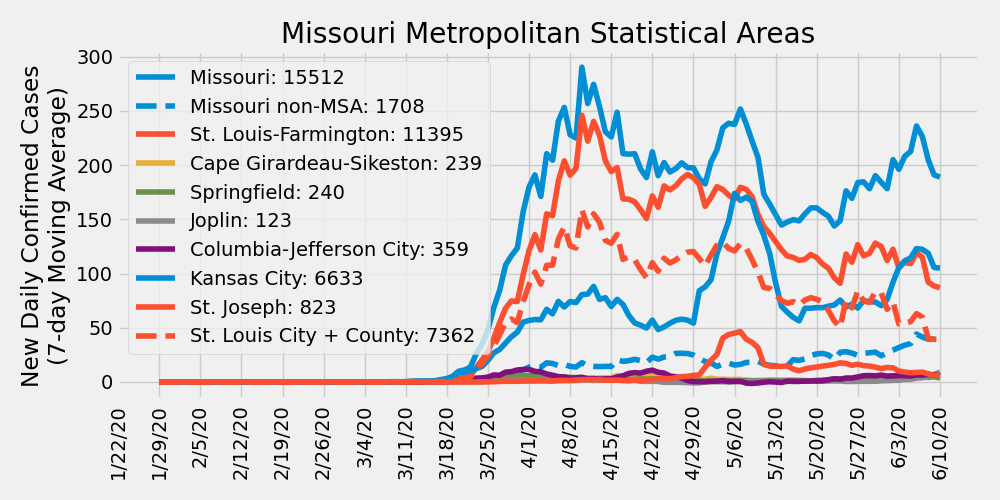
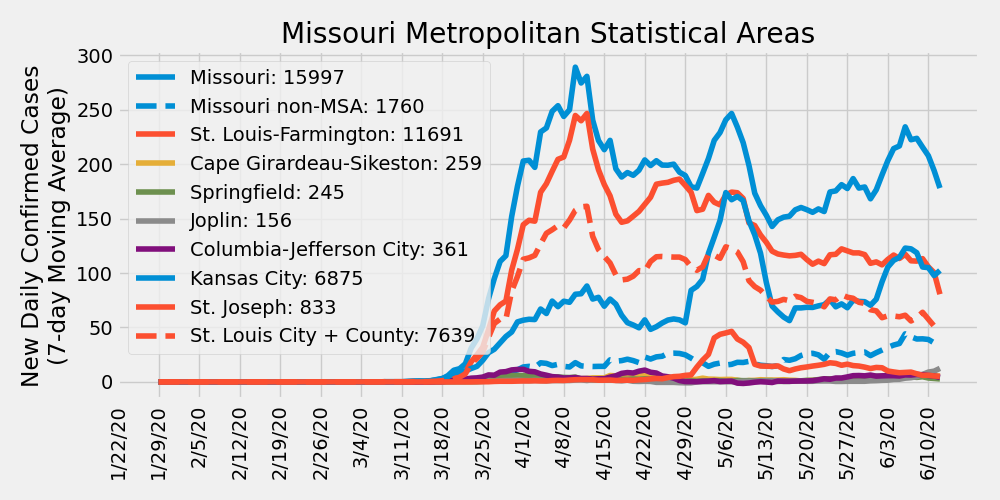
update 6/13/2020

diff --git a/ajvogt-analysis/missouri_analysis.md b/ajvogt-analysis/missouri_analysis.md
@@ -1,6 +1,6 @@
 # COVID-19 Missouri Statistics & Regional Breakdowns
 Author: Adam J. Vogt  
-Updated: 06/11/2020  
+Updated: 06/13/2020  
 Source: [COVID-19 Data Repository by the Center for Systems Science and Engineering (CSSE) at Johns Hopkins University](https://github.com/CSSEGISandData/COVID-19)  
 Source Code: `/ajvogt-analysis/mo_analysis_script.py`
 
@@ -15,129 +15,129 @@ Legend shows cumulative confirmed cases
 ## Metropolitan Statistical Area (MSA) Counties
 | MSA | State | County | Total Cases | Cases (Last 14 Days) | Cases (Last 7 Days) |
 |-----|-------|--------|---|---|---|
-| St. Louis-Farmington | Missouri | Lincoln | 121 | 12 | 3 |
-| St. Louis-Farmington | Missouri | Warren | 31 | 3 | 3 |
-| St. Louis-Farmington | Missouri | Franklin | 156 | 16 | 13 |
-| St. Louis-Farmington | Missouri | Jefferson | 411 | 66 | 16 |
-| St. Louis-Farmington | Missouri | St. Charles | 871 | 116 | 72 |
-| St. Louis-Farmington | Missouri | St. Louis | 5217 | 385 | 133 |
-| St. Louis-Farmington | Missouri | St. Louis City | 2145 | 261 | 139 |
-| St. Louis-Farmington | Missouri | St. Francois | 41 | 8 | 5 |
-| St. Louis-Farmington | Illinois | Monroe | 105 | 12 | 8 |
-| St. Louis-Farmington | Illinois | St. Clair | 1354 | 319 | 144 |
-| St. Louis-Farmington | Illinois | Madison | 660 | 116 | 60 |
-| St. Louis-Farmington | Illinois | Macoupin | 46 | 3 | 0 |
-| St. Louis-Farmington | Illinois | Jersey | 27 | 7 | 3 |
-| St. Louis-Farmington | Illinois | Clinton | 197 | 19 | 9 |
+| St. Louis-Farmington | Missouri | Lincoln | 88 | -21 | -30 |
+| St. Louis-Farmington | Missouri | Warren | 31 | 3 | 2 |
+| St. Louis-Farmington | Missouri | Franklin | 166 | 26 | 17 |
+| St. Louis-Farmington | Missouri | Jefferson | 374 | 25 | -24 |
+| St. Louis-Farmington | Missouri | St. Charles | 882 | 114 | 61 |
+| St. Louis-Farmington | Missouri | St. Louis | 5460 | 480 | 198 |
+| St. Louis-Farmington | Missouri | St. Louis City | 2179 | 263 | 126 |
+| St. Louis-Farmington | Missouri | St. Francois | 40 | 6 | 2 |
+| St. Louis-Farmington | Illinois | Monroe | 106 | 12 | 6 |
+| St. Louis-Farmington | Illinois | St. Clair | 1392 | 301 | 130 |
+| St. Louis-Farmington | Illinois | Madison | 683 | 118 | 59 |
+| St. Louis-Farmington | Illinois | Macoupin | 46 | 1 | 0 |
+| St. Louis-Farmington | Illinois | Jersey | 28 | 8 | 4 |
+| St. Louis-Farmington | Illinois | Clinton | 203 | 22 | 13 |
 | St. Louis-Farmington | Illinois | Calhoun | 1 | 0 | 0 |
-| St. Louis-Farmington | Illinois | Bond | 12 | 2 | 0 |
-| Cape Girardeau-Sikeston | Missouri | Cape Girardeau | 88 | 20 | 12 |
-| Cape Girardeau-Sikeston | Missouri | Bollinger | 7 | 1 | 0 |
-| Cape Girardeau-Sikeston | Illinois | Alexander | 16 | 8 | 4 |
-| Cape Girardeau-Sikeston | Missouri | Scott | 128 | 34 | 15 |
-| Springfield | Missouri | Greene | 183 | 58 | 19 |
-| Springfield | Missouri | Christian | 29 | 8 | 2 |
+| St. Louis-Farmington | Illinois | Bond | 12 | 0 | 0 |
+| Cape Girardeau-Sikeston | Missouri | Cape Girardeau | 101 | 28 | 18 |
+| Cape Girardeau-Sikeston | Missouri | Bollinger | 8 | 2 | 1 |
+| Cape Girardeau-Sikeston | Illinois | Alexander | 16 | 8 | 2 |
+| Cape Girardeau-Sikeston | Missouri | Scott | 134 | 34 | 15 |
+| Springfield | Missouri | Greene | 185 | 46 | 14 |
+| Springfield | Missouri | Christian | 29 | 8 | 0 |
 | Springfield | Missouri | Webster | 18 | 1 | 0 |
-| Springfield | Missouri | Polk | 4 | 1 | 1 |
-| Springfield | Missouri | Dallas | 6 | 3 | 3 |
-| Joplin | Missouri | Jasper | 79 | 46 | 40 |
-| Joplin | Missouri | Newton | 44 | 28 | 23 |
+| Springfield | Missouri | Polk | 7 | 4 | 3 |
+| Springfield | Missouri | Dallas | 6 | 3 | 2 |
+| Joplin | Missouri | Jasper | 107 | 71 | 61 |
+| Joplin | Missouri | Newton | 49 | 33 | 26 |
 | Columbia-Jefferson City | Missouri | Howard | 3 | 0 | 0 |
-| Columbia-Jefferson City | Missouri | Boone | 197 | 67 | 35 |
+| Columbia-Jefferson City | Missouri | Boone | 204 | 60 | 31 |
 | Columbia-Jefferson City | Missouri | Cooper | 9 | 0 | 0 |
-| Columbia-Jefferson City | Missouri | Moniteau | 49 | 4 | 1 |
-| Columbia-Jefferson City | Missouri | Cole | 61 | 1 | 0 |
-| Columbia-Jefferson City | Missouri | Callaway | 34 | 8 | 4 |
-| Columbia-Jefferson City | Missouri | Osage | 6 | 1 | 1 |
-| Kansas City | Missouri | Kansas City | 1626 | 540 | 260 |
-| Kansas City | Missouri | Jackson | 752 | 237 | 96 |
-| Kansas City | Missouri | Clay | 254 | 96 | 77 |
-| Kansas City | Missouri | Cass | 108 | 26 | 11 |
-| Kansas City | Missouri | Platte | 81 | 13 | 8 |
-| Kansas City | Missouri | Lafayette | 83 | 11 | 7 |
-| Kansas City | Missouri | Ray | 24 | 5 | 2 |
-| Kansas City | Missouri | Clinton | 20 | 2 | 2 |
-| Kansas City | Missouri | Bates | 12 | 5 | 2 |
-| Kansas City | Missouri | Caldwell | 8 | 3 | 2 |
-| Kansas City | Kansas | Johnson | 972 | 212 | 107 |
-| Kansas City | Kansas | Wyandotte | 1569 | 288 | 150 |
-| Kansas City | Kansas | Leavenworth | 1103 | 29 | 9 |
-| Kansas City | Kansas | Miami | 10 | 3 | 2 |
-| Kansas City | Kansas | Linn | 11 | 4 | 0 |
-| St. Joseph | Missouri | Andrew | 34 | 4 | 3 |
-| St. Joseph | Missouri | Buchanan | 762 | 100 | 37 |
+| Columbia-Jefferson City | Missouri | Moniteau | 49 | 3 | 0 |
+| Columbia-Jefferson City | Missouri | Cole | 57 | -3 | -4 |
+| Columbia-Jefferson City | Missouri | Callaway | 34 | 7 | 2 |
+| Columbia-Jefferson City | Missouri | Osage | 5 | 0 | 0 |
+| Kansas City | Missouri | Kansas City | 1680 | 563 | 212 |
+| Kansas City | Missouri | Jackson | 791 | 231 | 105 |
+| Kansas City | Missouri | Clay | 284 | 117 | 98 |
+| Kansas City | Missouri | Cass | 111 | 26 | 11 |
+| Kansas City | Missouri | Platte | 89 | 19 | 12 |
+| Kansas City | Missouri | Lafayette | 84 | 11 | 4 |
+| Kansas City | Missouri | Ray | 24 | 5 | 1 |
+| Kansas City | Missouri | Clinton | 19 | 1 | -1 |
+| Kansas City | Missouri | Bates | 12 | 5 | 0 |
+| Kansas City | Missouri | Caldwell | 7 | 2 | 0 |
+| Kansas City | Kansas | Johnson | 1015 | 214 | 105 |
+| Kansas City | Kansas | Wyandotte | 1626 | 291 | 155 |
+| Kansas City | Kansas | Leavenworth | 1106 | 24 | 6 |
+| Kansas City | Kansas | Miami | 16 | 9 | 9 |
+| Kansas City | Kansas | Linn | 11 | 0 | 0 |
+| St. Joseph | Missouri | Andrew | 34 | 4 | 2 |
+| St. Joseph | Missouri | Buchanan | 772 | 85 | 31 |
 | St. Joseph | Missouri | DeKalb | 7 | 1 | 1 |
-| St. Joseph | Kansas | Doniphan | 20 | 8 | 2 |
-| Missouri non-MSA | Missouri | Adair | 74 | 28 | 14 |
+| St. Joseph | Kansas | Doniphan | 20 | 5 | 2 |
+| Missouri non-MSA | Missouri | Adair | 75 | 25 | 8 |
 | Missouri non-MSA | Missouri | Atchison | 3 | 0 | 0 |
-| Missouri non-MSA | Missouri | Audrain | 119 | 51 | 22 |
+| Missouri non-MSA | Missouri | Audrain | 122 | 49 | 14 |
 | Missouri non-MSA | Missouri | Barry | 9 | 0 | 0 |
-| Missouri non-MSA | Missouri | Barton | 0 | 0 | 0 |
-| Missouri non-MSA | Missouri | Benton | 13 | 3 | 2 |
-| Missouri non-MSA | Missouri | Butler | 51 | 22 | 9 |
+| Missouri non-MSA | Missouri | Barton | 1 | 1 | 1 |
+| Missouri non-MSA | Missouri | Benton | 14 | 4 | 2 |
+| Missouri non-MSA | Missouri | Butler | 40 | 8 | -7 |
 | Missouri non-MSA | Missouri | Camden | 38 | 0 | 0 |
-| Missouri non-MSA | Missouri | Carroll | 9 | 2 | 1 |
+| Missouri non-MSA | Missouri | Carroll | 9 | 1 | 0 |
 | Missouri non-MSA | Missouri | Carter | 5 | 0 | 0 |
 | Missouri non-MSA | Missouri | Cedar | 9 | 0 | 0 |
 | Missouri non-MSA | Missouri | Chariton | 6 | 0 | 0 |
-| Missouri non-MSA | Missouri | Clark | 2 | 1 | 1 |
-| Missouri non-MSA | Missouri | Crawford | 9 | 0 | 0 |
+| Missouri non-MSA | Missouri | Clark | 1 | 0 | 0 |
+| Missouri non-MSA | Missouri | Crawford | 8 | -1 | -1 |
 | Missouri non-MSA | Missouri | Dade | 0 | 0 | 0 |
-| Missouri non-MSA | Missouri | Daviess | 7 | 3 | 3 |
-| Missouri non-MSA | Missouri | Dent | 0 | 0 | 0 |
-| Missouri non-MSA | Missouri | Douglas | 0 | 0 | 0 |
-| Missouri non-MSA | Missouri | Dunklin | 52 | 21 | 7 |
+| Missouri non-MSA | Missouri | Daviess | 7 | 3 | 2 |
+| Missouri non-MSA | Missouri | Dent | 1 | 1 | 1 |
+| Missouri non-MSA | Missouri | Douglas | 3 | 3 | 3 |
+| Missouri non-MSA | Missouri | Dunklin | 54 | 21 | 6 |
 | Missouri non-MSA | Missouri | Gasconade | 2 | 0 | 0 |
-| Missouri non-MSA | Missouri | Gentry | 54 | 33 | 13 |
-| Missouri non-MSA | Missouri | Grundy | 0 | 0 | 0 |
+| Missouri non-MSA | Missouri | Gentry | 54 | 28 | 8 |
+| Missouri non-MSA | Missouri | Grundy | 8 | 8 | 8 |
 | Missouri non-MSA | Missouri | Harrison | 9 | 0 | 0 |
-| Missouri non-MSA | Missouri | Henry | 15 | 5 | 3 |
+| Missouri non-MSA | Missouri | Henry | 16 | 5 | 4 |
 | Missouri non-MSA | Missouri | Hickory | 0 | 0 | 0 |
-| Missouri non-MSA | Missouri | Holt | 2 | 1 | 0 |
-| Missouri non-MSA | Missouri | Howell | 17 | 12 | 8 |
-| Missouri non-MSA | Missouri | Iron | 3 | 1 | 0 |
-| Missouri non-MSA | Missouri | Knox | 0 | 0 | 0 |
-| Missouri non-MSA | Missouri | Laclede | 7 | 4 | 0 |
-| Missouri non-MSA | Missouri | Lawrence | 8 | 0 | 0 |
+| Missouri non-MSA | Missouri | Holt | 1 | 0 | -1 |
+| Missouri non-MSA | Missouri | Howell | 19 | 13 | 8 |
+| Missouri non-MSA | Missouri | Iron | 2 | 0 | -1 |
+| Missouri non-MSA | Missouri | Knox | 2 | 2 | 2 |
+| Missouri non-MSA | Missouri | Laclede | 9 | 6 | 2 |
+| Missouri non-MSA | Missouri | Lawrence | 7 | -1 | -1 |
 | Missouri non-MSA | Missouri | Lewis | 7 | 0 | 0 |
-| Missouri non-MSA | Missouri | Livingston | 5 | 2 | 2 |
-| Missouri non-MSA | Missouri | McDonald | 42 | 24 | 20 |
-| Missouri non-MSA | Missouri | Macon | 6 | 4 | 0 |
+| Missouri non-MSA | Missouri | Livingston | 4 | 1 | 0 |
+| Missouri non-MSA | Missouri | McDonald | 63 | 43 | 40 |
+| Missouri non-MSA | Missouri | Macon | 6 | 2 | 0 |
 | Missouri non-MSA | Missouri | Maries | 2 | 0 | 0 |
-| Missouri non-MSA | Missouri | Marion | 6 | 1 | 1 |
-| Missouri non-MSA | Missouri | Mercer | 0 | 0 | 0 |
-| Missouri non-MSA | Missouri | Miller | 5 | 1 | 1 |
-| Missouri non-MSA | Missouri | Mississippi | 66 | 12 | 7 |
-| Missouri non-MSA | Missouri | Montgomery | 13 | 5 | 4 |
+| Missouri non-MSA | Missouri | Marion | 7 | 2 | 2 |
+| Missouri non-MSA | Missouri | Mercer | 5 | 5 | 5 |
+| Missouri non-MSA | Missouri | Miller | 4 | 0 | 0 |
+| Missouri non-MSA | Missouri | Mississippi | 70 | 14 | 9 |
+| Missouri non-MSA | Missouri | Montgomery | 12 | 3 | 2 |
 | Missouri non-MSA | Missouri | Morgan | 9 | 0 | 0 |
-| Missouri non-MSA | Missouri | New Madrid | 24 | 7 | 3 |
-| Missouri non-MSA | Missouri | Nodaway | 14 | 2 | 0 |
-| Missouri non-MSA | Missouri | Oregon | 2 | 0 | 0 |
+| Missouri non-MSA | Missouri | New Madrid | 32 | 12 | 11 |
+| Missouri non-MSA | Missouri | Nodaway | 15 | 3 | 1 |
+| Missouri non-MSA | Missouri | Oregon | 3 | 1 | 1 |
 | Missouri non-MSA | Missouri | Ozark | 0 | 0 | 0 |
-| Missouri non-MSA | Missouri | Pemiscot | 99 | 23 | 10 |
-| Missouri non-MSA | Missouri | Perry | 75 | 25 | 11 |
-| Missouri non-MSA | Missouri | Pettis | 84 | 12 | 5 |
+| Missouri non-MSA | Missouri | Pemiscot | 99 | 23 | 9 |
+| Missouri non-MSA | Missouri | Perry | 80 | 25 | 11 |
+| Missouri non-MSA | Missouri | Pettis | 84 | 6 | 5 |
 | Missouri non-MSA | Missouri | Phelps | 6 | 2 | 1 |
-| Missouri non-MSA | Missouri | Pike | 29 | 13 | 2 |
-| Missouri non-MSA | Missouri | Pulaski | 109 | 75 | 70 |
-| Missouri non-MSA | Missouri | Putnam | 0 | 0 | 0 |
+| Missouri non-MSA | Missouri | Pike | 31 | 14 | 3 |
+| Missouri non-MSA | Missouri | Pulaski | 106 | 72 | 67 |
+| Missouri non-MSA | Missouri | Putnam | 1 | 1 | 1 |
 | Missouri non-MSA | Missouri | Ralls | 5 | 2 | 0 |
 | Missouri non-MSA | Missouri | Randolph | 10 | 1 | 0 |
 | Missouri non-MSA | Missouri | Reynolds | 2 | 0 | 0 |
-| Missouri non-MSA | Missouri | Ripley | 11 | 4 | 1 |
-| Missouri non-MSA | Missouri | Ste. Genevieve | 13 | 4 | 1 |
-| Missouri non-MSA | Missouri | Saline | 283 | 15 | 14 |
-| Missouri non-MSA | Missouri | Schuyler | 0 | 0 | 0 |
-| Missouri non-MSA | Missouri | Scotland | 9 | 5 | 1 |
-| Missouri non-MSA | Missouri | Shannon | 0 | 0 | 0 |
+| Missouri non-MSA | Missouri | Ripley | 12 | 5 | 1 |
+| Missouri non-MSA | Missouri | Ste. Genevieve | 13 | 2 | 1 |
+| Missouri non-MSA | Missouri | Saline | 270 | 1 | -11 |
+| Missouri non-MSA | Missouri | Schuyler | 1 | 1 | 1 |
+| Missouri non-MSA | Missouri | Scotland | 8 | 4 | -1 |
+| Missouri non-MSA | Missouri | Shannon | 6 | 6 | 6 |
 | Missouri non-MSA | Missouri | Shelby | 1 | 0 | 0 |
-| Missouri non-MSA | Missouri | Stoddard | 109 | 35 | 15 |
-| Missouri non-MSA | Missouri | Stone | 10 | 6 | 5 |
-| Missouri non-MSA | Missouri | Sullivan | 71 | 18 | 10 |
-| Missouri non-MSA | Missouri | Taney | 14 | 0 | 0 |
-| Missouri non-MSA | Missouri | Texas | 1 | 1 | 0 |
+| Missouri non-MSA | Missouri | Stoddard | 113 | 35 | 8 |
+| Missouri non-MSA | Missouri | Stone | 7 | 3 | -3 |
+| Missouri non-MSA | Missouri | Sullivan | 72 | 17 | 9 |
+| Missouri non-MSA | Missouri | Taney | 15 | 1 | 1 |
+| Missouri non-MSA | Missouri | Texas | 1 | 0 | 0 |
 | Missouri non-MSA | Missouri | Vernon | 12 | 3 | 2 |
-| Missouri non-MSA | Missouri | Washington | 13 | 3 | 1 |
+| Missouri non-MSA | Missouri | Washington | 13 | 2 | 1 |
 | Missouri non-MSA | Missouri | Wayne | 0 | 0 | 0 |
 | Missouri non-MSA | Missouri | Worth | 4 | 0 | 0 |
 | Missouri non-MSA | Missouri | Wright | 14 | 3 | 3 |
